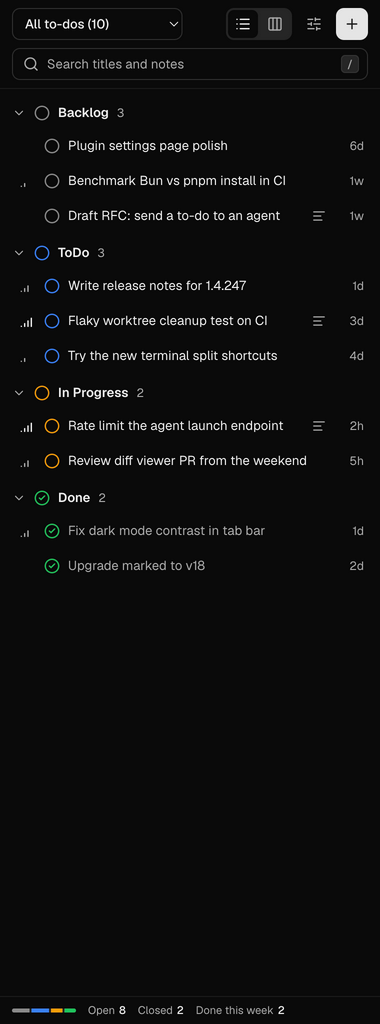
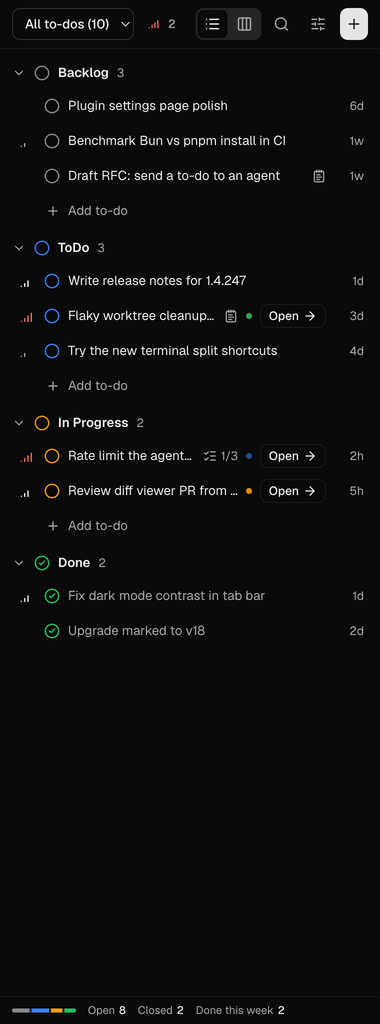
docs(screenshots): lead with the board, and match the reader's theme
The board is what sets the plugin apart, so the README hero shows it,
light or dark to follow the reader's theme. The README and catalog
screenshots are new shots of the current UI. The catalog gets light and
dark versions of the board and the list, and shows the set that
matches the Orca theme.

diff --git a/README.md b/README.md
@@ -17,7 +17,10 @@ compact list in the sidebar. No account, no sync service, no network.
 
 <br />
 
-![The board view in the center tab, with one column for each state](docs/screenshots/tab-board-light.png)
+<picture>
+  <source media="(prefers-color-scheme: dark)" srcset="docs/screenshots/tab-board-dark.png" />
+  <img src="docs/screenshots/tab-board-light.png" alt="The board in the center tab: a column for each state, cards with priority, checklist progress, tags, age and agent status" />
+</picture>
 
 </div>
 
